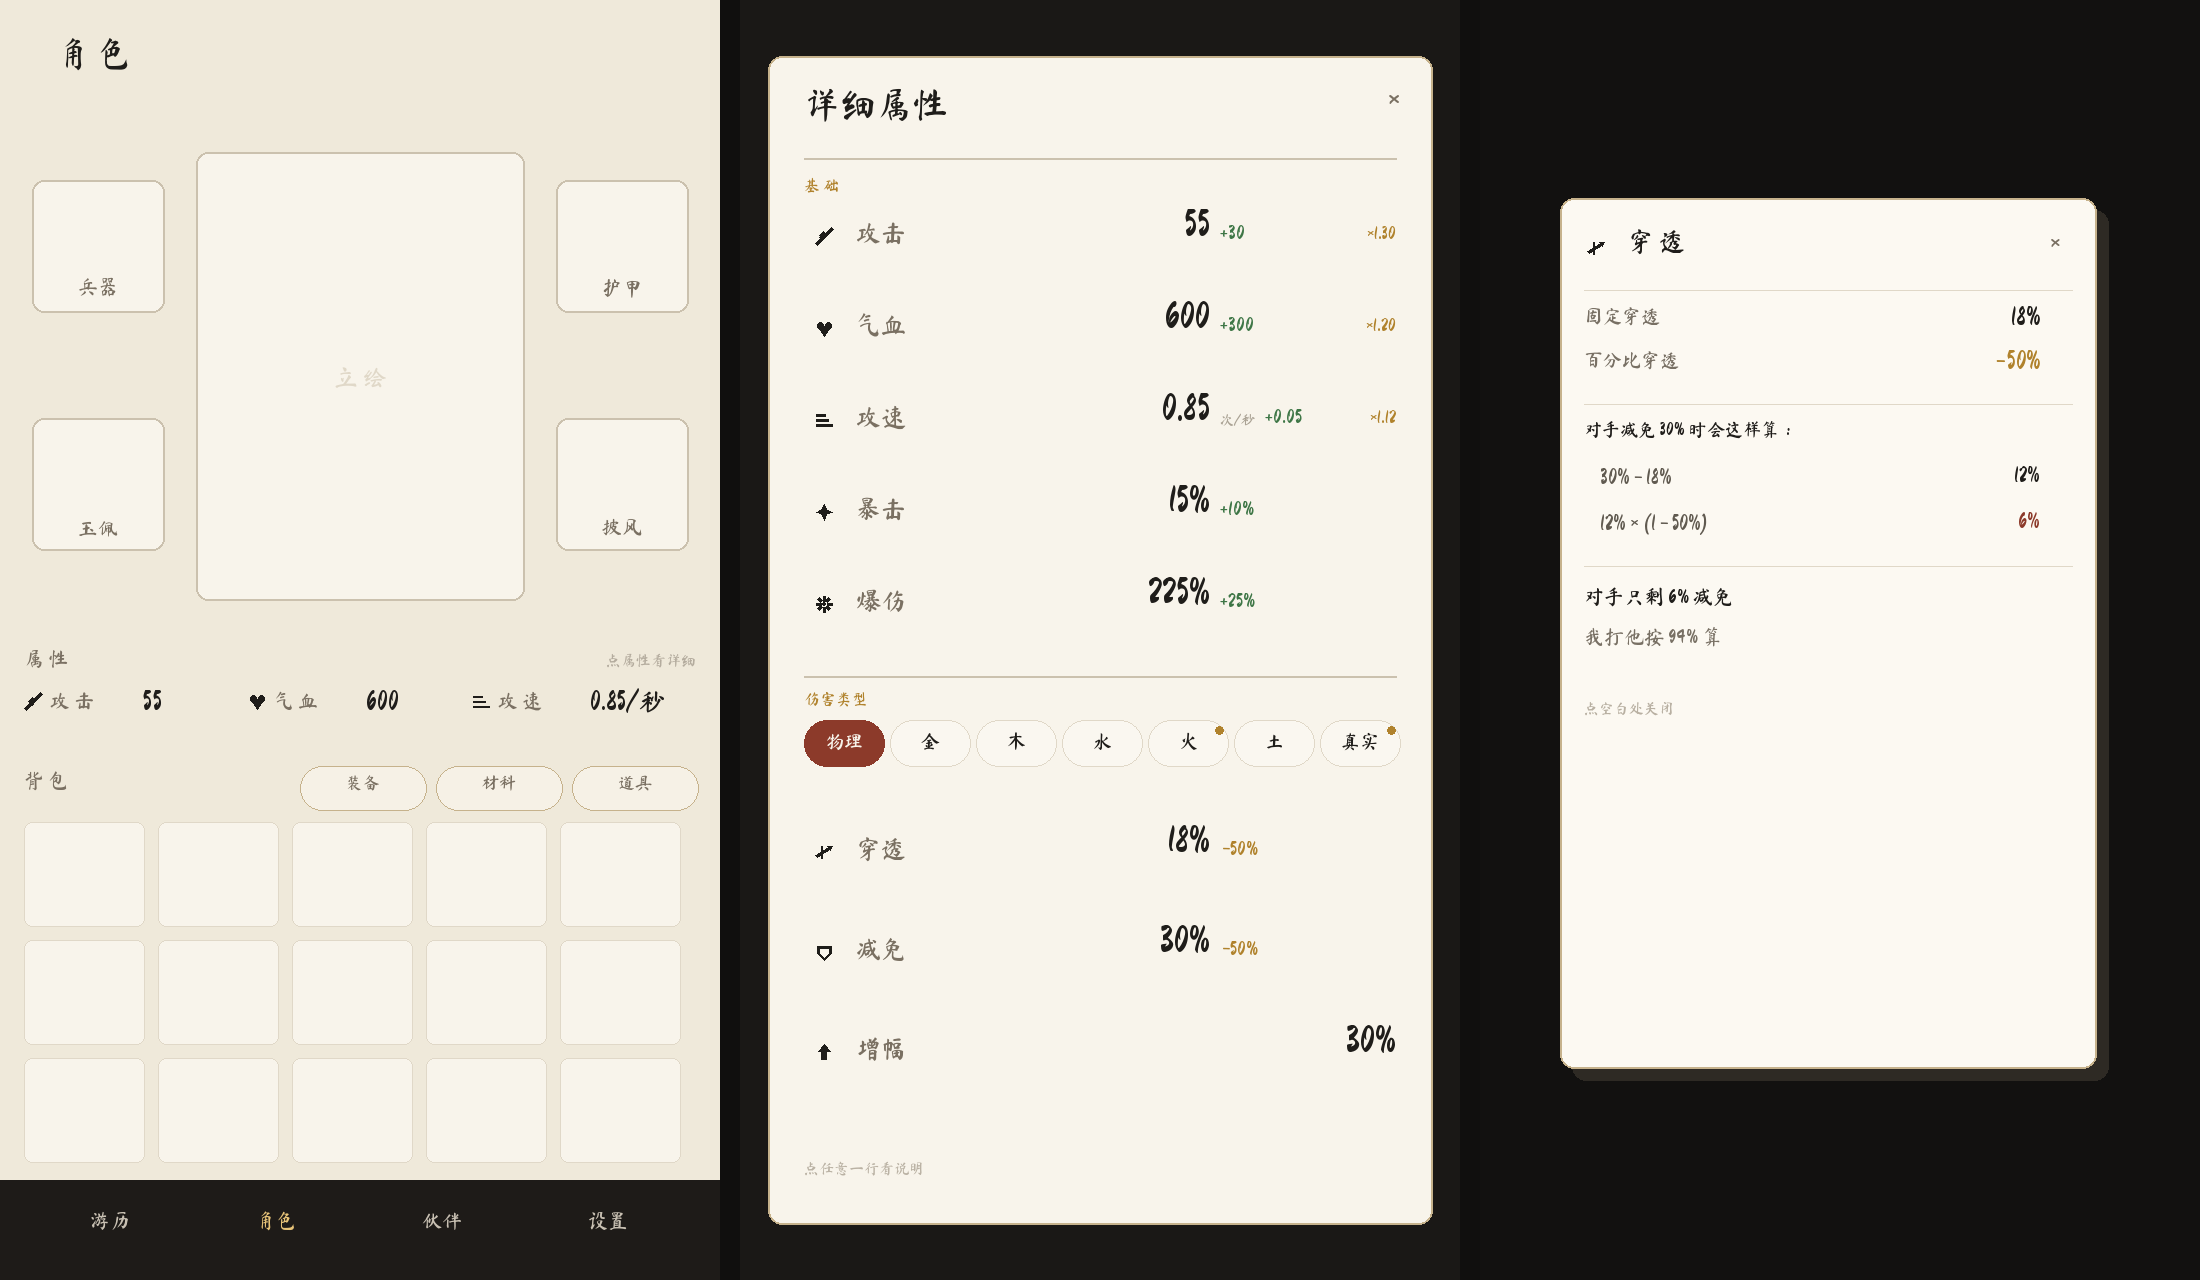
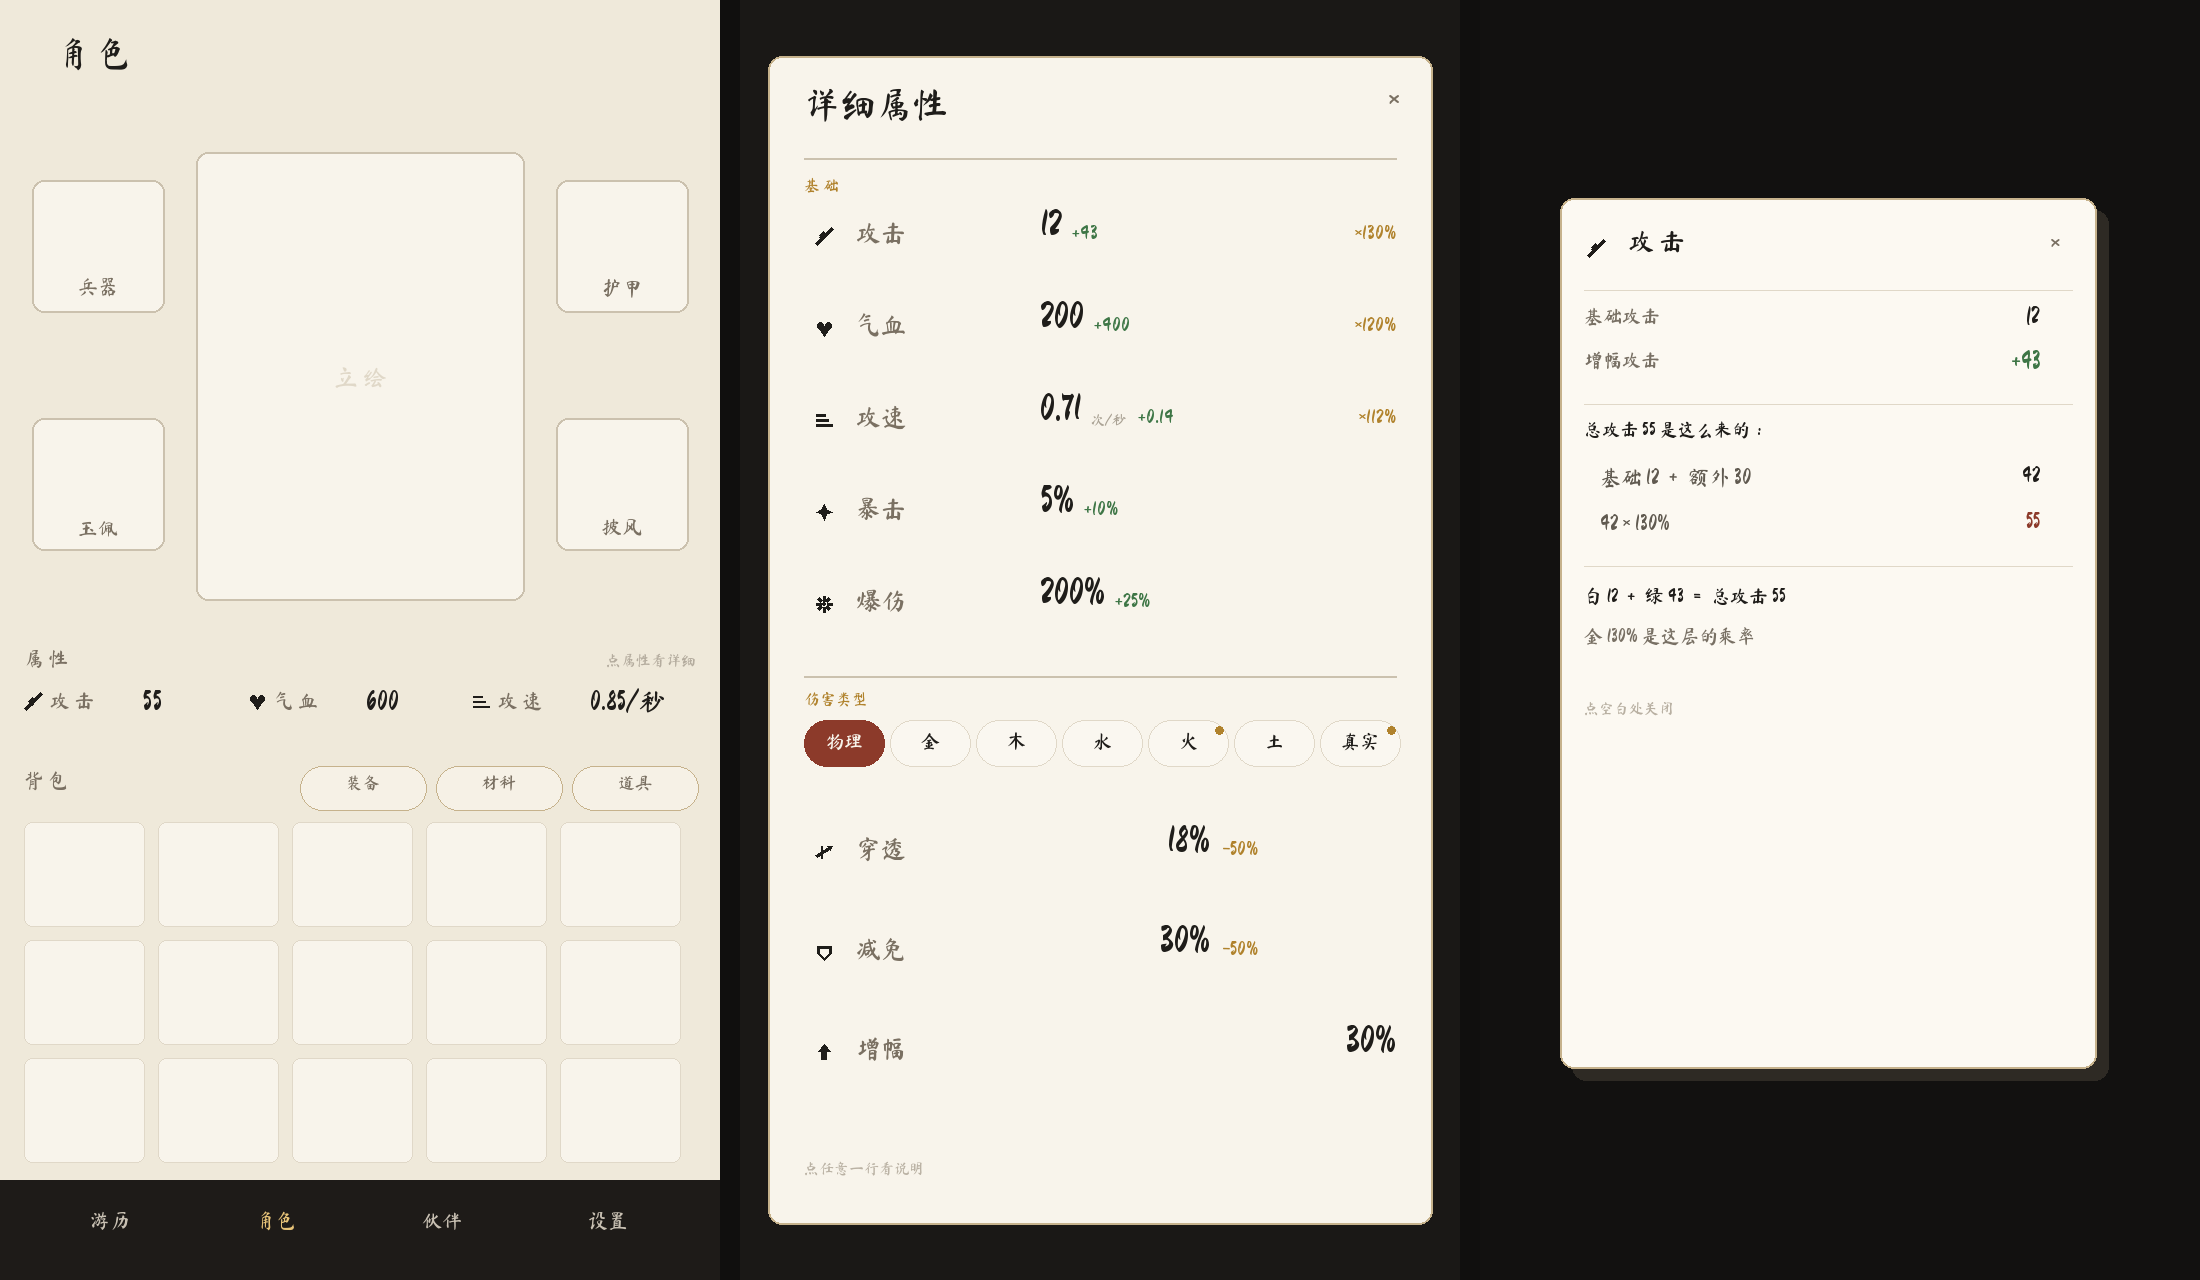
文档：攻击改成 白基础+绿增幅 组成总值，增幅显示 ×130% 不用 ×1.30
- 白=基础值、绿=增幅出来的量、金=百分比增幅（×130%，100%=无增幅）
- 白+绿=总值，玩家不用自己加
- 穿透定稿方案 B：剩余 = max(0, 对手固定减免 − 我固定穿透) × (1 − 我百分比穿透)
- 减免两段：受伤 = 伤害 × (1−固定减免) × (1−百分比减免)；百分比减免定为稀有属性

diff --git a/docs/人物属性_设计稿.md b/docs/人物属性_设计稿.md
@@ -153,8 +153,12 @@
 ### 3.1.1 穿透 / 减免 / 增幅 的口径
 
 ```
-穿透（作用在对手身上，两段依次）：
-  剩余减免 = max(0, 对手减免 − 我的固定穿透) × (1 − 我的百分比穿透)
+穿透（作用在对手身上，两段依次，**已定稿**）：
+  剩余减免 = max(0, 对手固定减免 − 我固定穿透) × (1 − 我百分比穿透)
+  受伤     = 伤害 × (1 − 剩余减免) × (1 − 对手百分比减免)
+
+  → **百分比穿透削的是"固定那道扣完之后的整体"**，不管对手怎么配都能把剩下砍半；
+    对手的「百分比减免」是另一层，单独再乘一次（所以它很稀有，见下）。
 
 减免（我自己挨打时吃，两段依次）：
   受伤 = 伤害 × (1 − 固定减免) × (1 − 百分比减免)     → 各自封顶
@@ -162,6 +166,9 @@
   例：我 固定减免 30% ＋ 百分比减免 50%，挨一刀 100
       → 100 × (1−30%) = 70
       → 70  × (1−50%) = 35
+
+  > **百分比减免是稀有属性** —— 因为它和穿透是乘算、后期极强；
+  > 常规来源只给「固定减免」，百分比减免留给少数 boss / 顶级羁绊。
 
 增幅（我的伤害乘区）：
   最终增幅 = 固定增幅（点数）                → 封顶 200%
@@ -237,20 +244,20 @@
 ┌ 详细属性 ──────────────────────── × ┐
 │                                    │
 │  基 础                             │
-│   ⚔ 攻击        55 +30    ×1.30    │
-│   ♥ 气血       600 +300   ×1.20    │
-│   ➤ 攻速  0.85 次/秒 +0.05 ×1.12   │
-│   ✦ 暴击       15% +10%            │
-│   ✸ 爆伤      225% +25%            │
+│   ⚔ 攻击          12 +43    ×130%  │
+│   ♥ 气血         200 +400   ×120%  │
+│   ➤ 攻速  0.71 次/秒 +0.14 ×112%   │
+│   ✦ 暴击          5% +10%          │
+│   ✸ 爆伤        200% +25%          │
 │                                    │
 │  ───────────────────────────────   │
 │                                    │
 │  伤害类型                          │
 │   (物理)(金)(木)(水)(火)(土)(真实)  │
 │                                    │
-│   ➹ 穿透   13% +12%    ×1.10       │
+│   ➹ 穿透   18% −50%                │
 │   ⛨ 减免   30% −50%                │
-│   ⇑ 增幅   30% +25%    ×1.20       │
+│   ⇑ 增幅   30%                     │
 │                                    │
 │   点任意一行看说明                  │
 └────────────────────────────────────┘
@@ -279,12 +286,17 @@
 
 ### 4.2.1 颜色就是语言（全站统一）
 
-| 颜色 | 含义 |
-|---|---|
-| **墨黑** | 总值（基础＋额外，再乘增幅后的最终值） |
-| **绿** | **额外加成** —— 装备 / 强化 / 卡组 / 羁绊给的那部分 |
-| **金** | 增幅（乘区） |
-| **红** | 超上限（并标 `(上限 60%)`，不偷偷封顶） |
+| 颜色 | 含义 | 例 |
+|---|---|---|
+| **墨黑** | **基础值**（白＋绿＝总值） | `12` |
+| **绿** | **增幅出来的那部分**（总值 − 基础值） | `+43` |
+| **金** | **百分比增幅**，写成 `×130%` 而不是 `×1.30` | `×130%` |
+| **红** | 超上限（并标 `(上限 60%)`，不偷偷封顶） | |
+
+> **为什么用 ×130% 不用 ×1.30**：1.0 和 1.3 在屏幕上几乎看不出差别，
+> 100% 和 130% 一眼就知道「这是三成」。100% ＝ 没有增幅。
+
+> **白＋绿＝总值**：玩家不用自己加，看两个数就知道「我原本 12，靠加成堆到 55」。
 
 - 没有额外加成的条目不显示绿字（比如纯基础值）
 - 真实页签：穿透、减免两行灰掉、数值写 `—`
